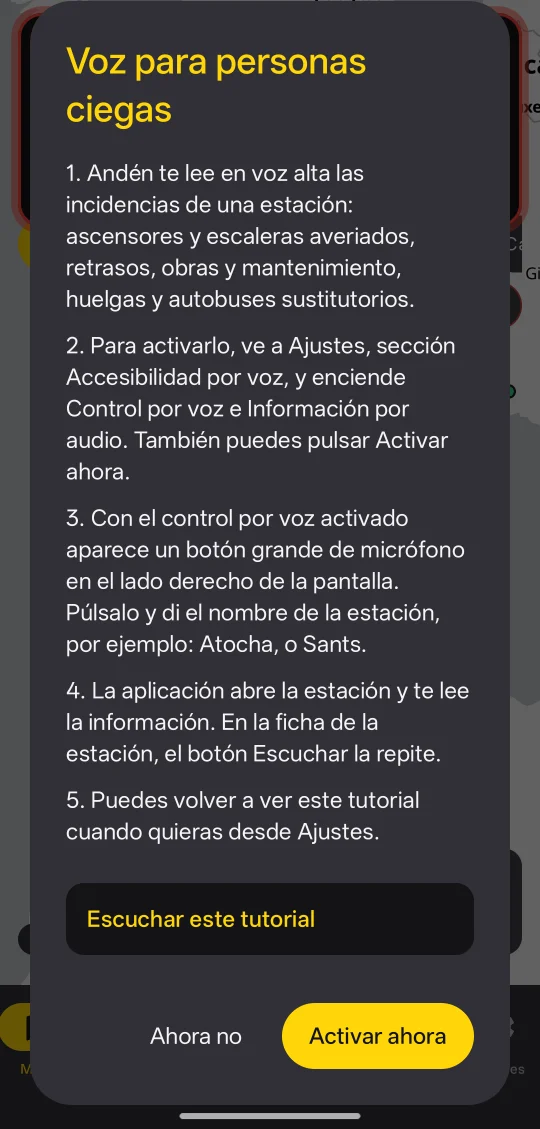
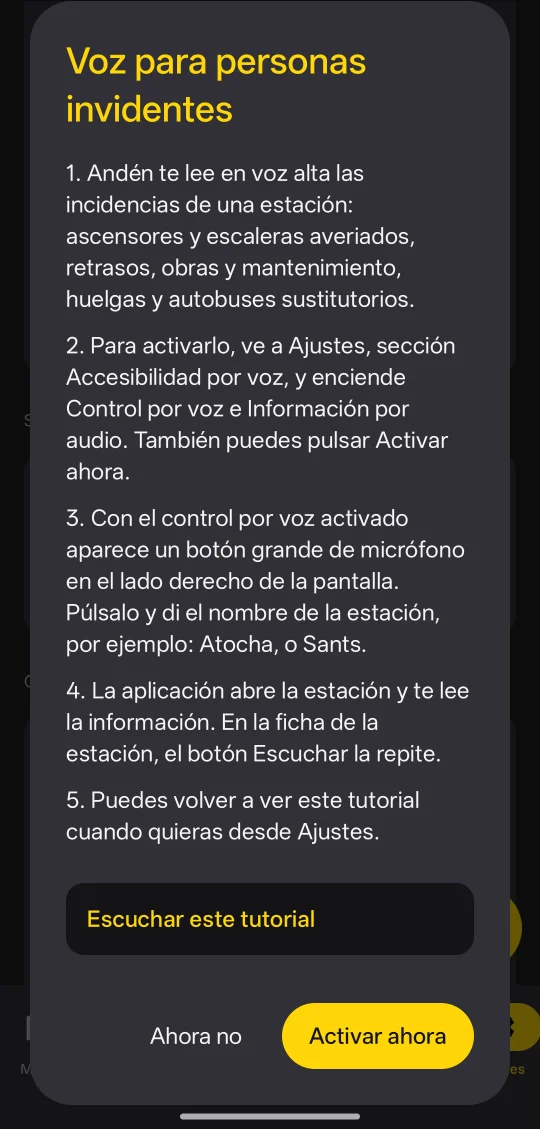
Landing: 'personas invidentes' y captura del tutorial actualizada

Changed region(s): [[0.8889, 0.0, 1.0, 0.961], [0.0, 0.0, 0.1185, 0.93], [0.1185, 0.062, 0.4444, 0.124]]

diff --git a/index.html b/index.html
@@ -4,10 +4,10 @@
   <meta charset="utf-8">
   <meta name="viewport" content="width=device-width, initial-scale=1">
   <title>Andén · Seguridad, retrasos y accesibilidad en la red ferroviaria española</title>
-  <meta name="description" content="Andén muestra en un mapa los retrasos, las incidencias, las alertas de seguridad y la accesibilidad de las estaciones de la red ferroviaria española, con control por voz y lectura en audio para personas ciegas, con datos abiertos oficiales. Web y app Android.">
+  <meta name="description" content="Andén muestra en un mapa los retrasos, las incidencias, las alertas de seguridad y la accesibilidad de las estaciones de la red ferroviaria española, con control por voz y lectura en audio para personas invidentes, con datos abiertos oficiales. Web y app Android.">
   <meta name="theme-color" content="#1c1c1f">
   <meta property="og:title" content="Andén · Seguridad, retrasos y accesibilidad en la red ferroviaria">
-  <meta property="og:description" content="Mapa en vivo de retrasos e incidencias, alertas de seguridad y accesibilidad de estaciones, con voz para personas ciegas, con datos abiertos oficiales.">
+  <meta property="og:description" content="Mapa en vivo de retrasos e incidencias, alertas de seguridad y accesibilidad de estaciones, con voz para personas invidentes, con datos abiertos oficiales.">
   <meta property="og:type" content="website">
   <meta property="og:image" content="img/mapa-espana.webp">
   <link rel="icon" href="icon.png">
@@ -112,7 +112,7 @@
           <li>Ficha de cada estación con las <strong>próximas salidas y llegadas</strong> y su retraso.</li>
           <li>Más de <strong>1.900 estaciones</strong>, agrupadas por comunidad y provincia, con un buscador.</li>
           <li>Icono de accesibilidad visible en el mapa y en el listado.</li>
-          <li><strong>Control por voz y lectura en audio para personas ciegas</strong>: <a href="#voz">mira cómo funciona</a>.</li>
+          <li><strong>Control por voz y lectura en audio para personas invidentes</strong>: <a href="#voz">mira cómo funciona</a>.</li>
         </ul>
       </div>
       <div class="pillar-img two">
@@ -122,11 +122,11 @@
     </article>
   </section>
 
-  <!-- ───────── Voz para personas ciegas ───────── -->
+  <!-- ───────── Voz para personas invidentes ───────── -->
   <section class="voice" id="voz" aria-labelledby="voz-t">
     <div class="wrap voice-grid">
       <div class="voice-text">
-        <p class="eyebrow blue">Accesibilidad para personas ciegas</p>
+        <p class="eyebrow blue">Accesibilidad para personas invidentes</p>
         <h2 id="voz-t">Pide una estación con tu voz y escucha sus incidencias</h2>
         <p class="lead">Andén también habla. Di el nombre de una estación y la app la abre y te <strong>lee en voz alta</strong> todo lo que la afecta, sin tener que mirar la pantalla.</p>
 
@@ -167,7 +167,7 @@
       <div class="card"><h3>🔔 Avisos al móvil</h3><p>Las alertas críticas llegan como notificación, también con la app cerrada, y abren el mapa en el lugar exacto.</p></div>
       <div class="card"><h3>🚉 Estaciones</h3><p>Tablero de salidas y llegadas de cada estación, con la hora prevista y el retraso.</p></div>
       <div class="card"><h3>🔍 Buscador</h3><p>Encuentra cualquier estación por su nombre y ábrela en el mapa.</p></div>
-      <div class="card"><h3>🎙 Voz para personas ciegas</h3><p>Pide una estación con tu voz y escucha ascensores averiados, retrasos, obras, huelgas y autobuses. <a href="#voz">Cómo funciona</a>.</p></div>
+      <div class="card"><h3>🎙 Voz para personas invidentes</h3><p>Pide una estación con tu voz y escucha ascensores averiados, retrasos, obras, huelgas y autobuses. <a href="#voz">Cómo funciona</a>.</p></div>
       <div class="card"><h3>🛡 Sin cuentas</h3><p>No hace falta registrarse ni compartir tu ubicación: Andén solo lee datos públicos.</p></div>
       <div class="card"><h3>🌐 Web y Android</h3><p>La misma información en el navegador y en la app para Android. <a href="https://santiatienza-collab.github.io/anden-datos/">Abrir la web app</a>.</p></div>
     </div>

diff --git a/style.css b/style.css
@@ -127,7 +127,7 @@ footer { background: var(--g950); border-top: 1px solid var(--g800); padding: 32
 .year.prov { border-color: rgba(255,214,10,.55); box-shadow: 0 0 18px rgba(255,214,10,.12); }
 .year.prov .n { font-size: 34px; line-height: 1.15; color: var(--yellow); text-shadow: 0 0 10px rgba(255,214,10,.4); padding: 8px 0 4px; letter-spacing: -.02em; }
 
-/* Voz para personas ciegas */
+/* Voz para personas invidentes */
 .voice { background: radial-gradient(900px 420px at 15% 0%, rgba(47,128,237,.16), transparent 70%), var(--g950); border-block: 1px solid var(--g800); padding: 76px 0; }
 .voice-grid { display: grid; grid-template-columns: 1.25fr .75fr; gap: 48px; align-items: start; }
 .voice .lead { font-size: clamp(17px, 2vw, 20px); color: #d6d6dc; max-width: 58ch; }
